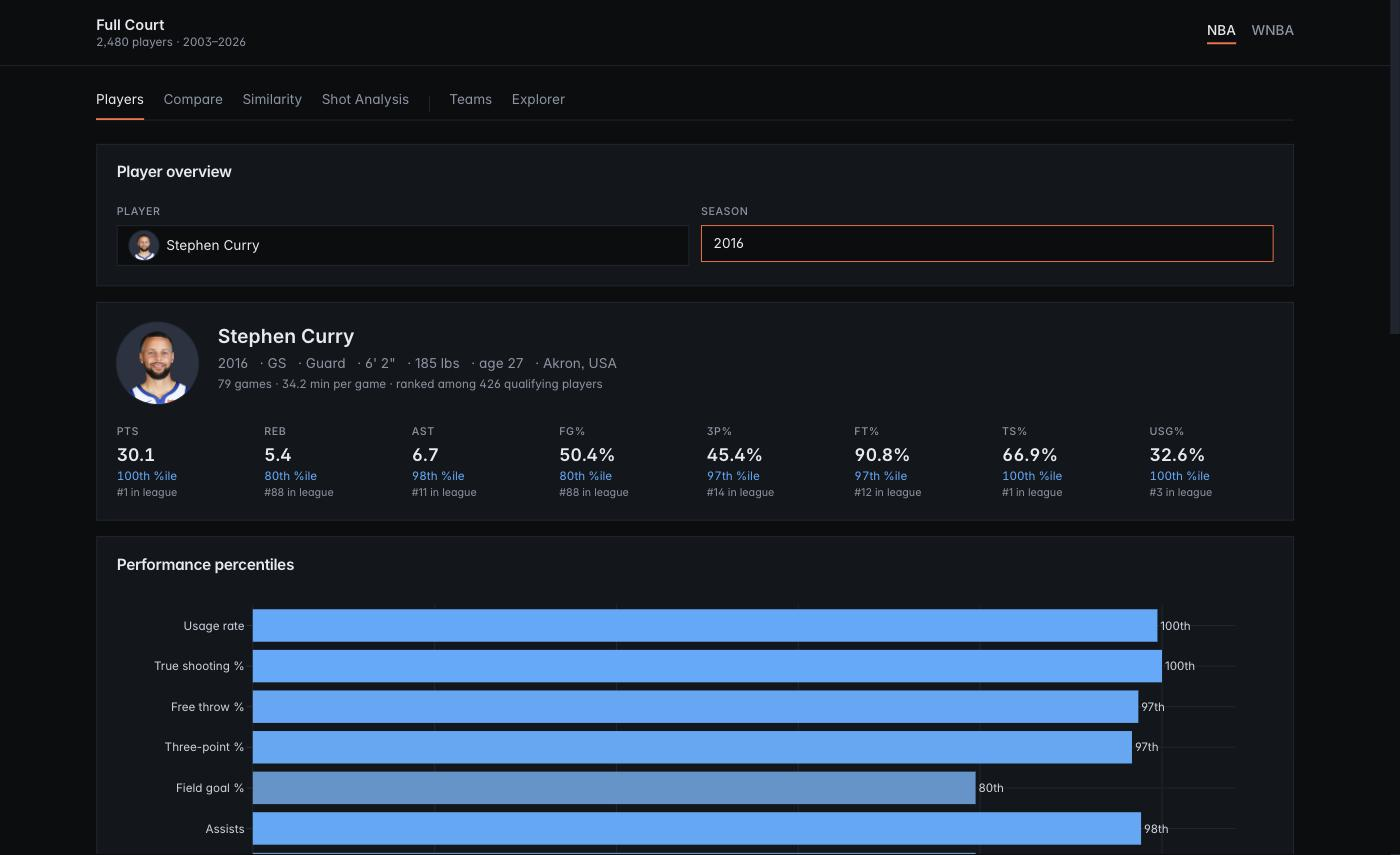
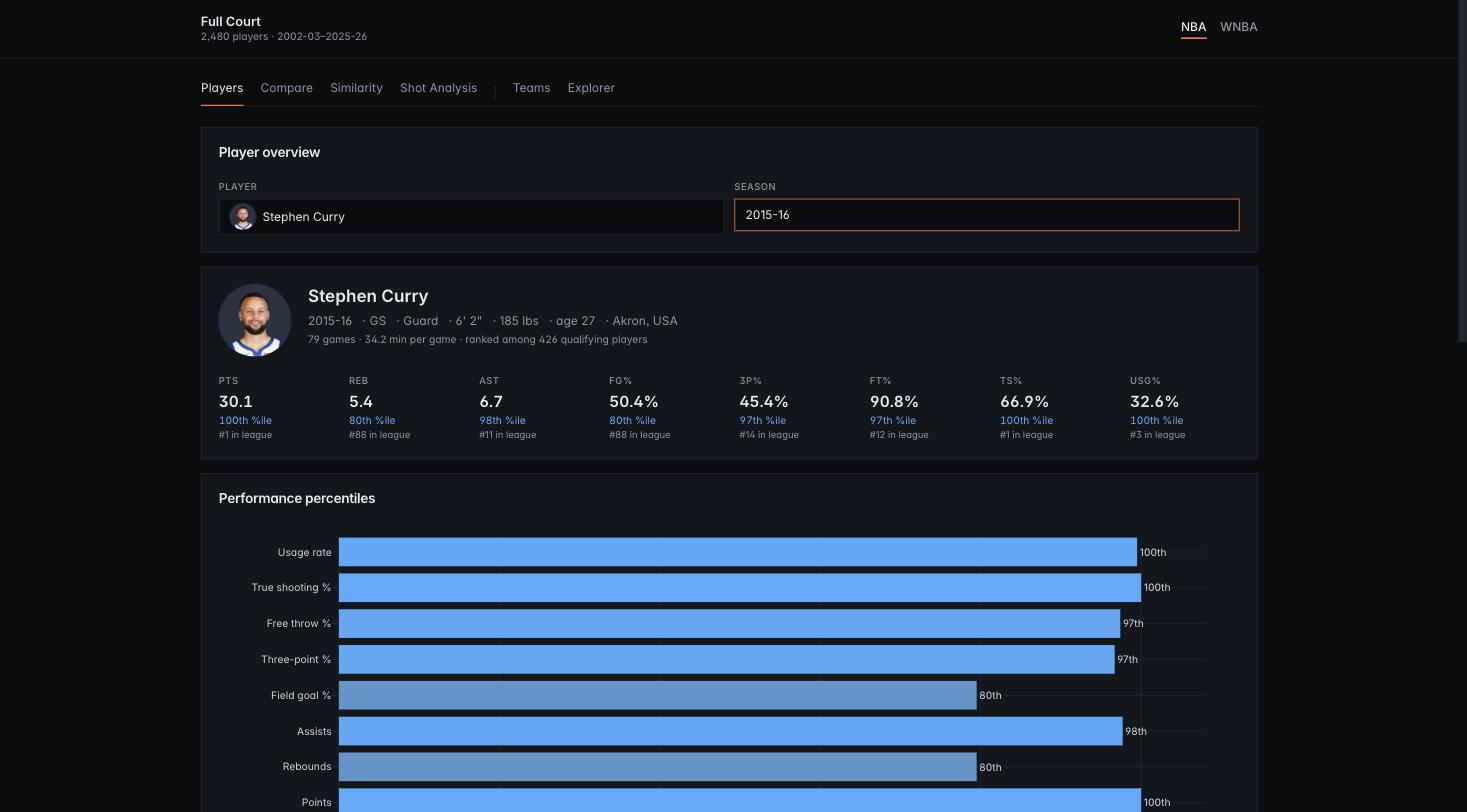
fixed year bug

diff --git a/frontend/src/components/panels/TeamMatchup.tsx b/frontend/src/components/panels/TeamMatchup.tsx
@@ -4,6 +4,7 @@ import { Card, CardBody, CardHeader } from "@/components/ui/Card";
 import { Select } from "@/components/ui/Select";
 import { Plot } from "@/components/ui/Plot";
 import { cn } from "@/lib/cn";
+import { formatSeason } from "@/lib/season";
 
 type Pick = { team: string; season: string };
 
@@ -46,14 +47,14 @@ export function TeamMatchup({ meta }: { meta: Meta }) {
     ? ["eFG%", "TOV%", "ORB%", "FT rate"].length && [
         {
           type: "bar",
-          name: `${data.a.season} ${data.a.team}`,
+          name: `${formatSeason(data.a.season, meta.season_format)} ${data.a.team}`,
           x: ["eFG%", "TOV%", "ORB%", "FT rate"],
           y: ["eFG%", "TOV%", "ORB%", "FT rate"].map((k) => data.a.values[k]),
           marker: { color: "#ff6a3d" },
         },
         {
           type: "bar",
-          name: `${data.b.season} ${data.b.team}`,
+          name: `${formatSeason(data.b.season, meta.season_format)} ${data.b.team}`,
           x: ["eFG%", "TOV%", "ORB%", "FT rate"],
           y: ["eFG%", "TOV%", "ORB%", "FT rate"].map((k) => data.b.values[k]),
           marker: { color: "#4dabff" },
@@ -69,7 +70,12 @@ export function TeamMatchup({ meta }: { meta: Meta }) {
       </div>
       <div>
         <div className="label mb-1.5">Season</div>
-        <Select value={p.season} onChange={(v) => set({ ...p, season: v })} options={meta.seasons} placeholder="Select" />
+        <Select
+          value={p.season}
+          onChange={(v) => set({ ...p, season: v })}
+          options={meta.seasons.map((s) => ({ value: s, label: formatSeason(s, meta.season_format) }))}
+          placeholder="Select"
+        />
       </div>
     </div>
   );
@@ -97,10 +103,10 @@ export function TeamMatchup({ meta }: { meta: Meta }) {
                   <tr className="text-left text-xs uppercase tracking-wider text-mute">
                     <th className="px-4 py-2 font-medium">Metric</th>
                     <th className="px-3 py-2 text-right font-medium">
-                      {data.a.season} {data.a.team}
+                      {formatSeason(data.a.season, meta.season_format)} {data.a.team}
                     </th>
                     <th className="px-4 py-2 text-right font-medium">
-                      {data.b.season} {data.b.team}
+                      {formatSeason(data.b.season, meta.season_format)} {data.b.team}
                     </th>
                   </tr>
                 </thead>

diff --git a/frontend/src/components/panels/Teams.tsx b/frontend/src/components/panels/Teams.tsx
@@ -3,6 +3,7 @@ import { api, type Meta } from "@/lib/api";
 import { Card, CardBody, CardHeader } from "@/components/ui/Card";
 import { Select } from "@/components/ui/Select";
 import { Plot } from "@/components/ui/Plot";
+import { formatSeason } from "@/lib/season";
 
 export function Teams({ meta }: { meta: Meta }) {
   const [team, setTeam] = useState("");
@@ -26,7 +27,7 @@ export function Teams({ meta }: { meta: Meta }) {
 
   const ratingTrace = useMemo(() => {
     if (!series?.rows) return [];
-    const seasons = series.rows.map((r: any) => r.season);
+    const seasons = series.rows.map((r: any) => formatSeason(r.season, meta.season_format));
     return [
       { type: "scatter", mode: "lines+markers", name: "Offensive rating",
         x: seasons, y: series.rows.map((r: any) => r.ortg) },
@@ -43,7 +44,7 @@ export function Teams({ meta }: { meta: Meta }) {
       {
         type: "bar",
         name: "Net rating",
-        x: series.rows.map((r: any) => r.season),
+        x: series.rows.map((r: any) => formatSeason(r.season, meta.season_format)),
         y: series.rows.map((r: any) =>
           r.ortg != null && r.drtg != null ? +(r.ortg - r.drtg).toFixed(1) : null
         ),
@@ -60,7 +61,7 @@ export function Teams({ meta }: { meta: Meta }) {
     if (!series?.rows) return [];
     return [
       { type: "scatter", mode: "lines+markers", name: "Pace",
-        x: series.rows.map((r: any) => r.season),
+        x: series.rows.map((r: any) => formatSeason(r.season, meta.season_format)),
         y: series.rows.map((r: any) => r.pace) },
     ];
   }, [series]);
@@ -90,7 +91,8 @@ export function Teams({ meta }: { meta: Meta }) {
     ];
   }, [factors, team]);
 
-  const seasonOptions = series?.rows?.map((r: any) => r.season) ?? [];
+  const seasonOptions =
+    series?.rows?.map((r: any) => ({ value: r.season, label: formatSeason(r.season, meta.season_format) })) ?? [];
 
   return (
     <div className="space-y-4">
@@ -163,7 +165,7 @@ export function Teams({ meta }: { meta: Meta }) {
 
       <Card>
         <CardHeader
-          title={season ? `Four Factors — ${team}, ${season}` : "Four Factors"}
+          title={season ? `Four Factors — ${team}, ${formatSeason(season, meta.season_format)}` : "Four Factors"}
         />
         <CardBody>
           <Plot

diff --git a/frontend/src/components/panels/Explorer.tsx b/frontend/src/components/panels/Explorer.tsx
@@ -5,6 +5,7 @@ import { Select } from "@/components/ui/Select";
 import { playerAvatar } from "@/components/ui/Avatar";
 import { formatValue, label, shortLabel, sortMetrics } from "@/lib/metrics";
 import { cn } from "@/lib/cn";
+import { formatSeason } from "@/lib/season";
 
 type Filt = { metric: string; op: string; value: number; value2?: number };
 
@@ -20,6 +21,7 @@ const OPS = [
 export function Explorer({ meta }: { meta: Meta }) {
   const avatar = playerAvatar(meta);
   const seasons = meta.seasons;
+  const seasonOptions = seasons.map((s) => ({ value: s, label: formatSeason(s, meta.season_format) }));
   const metricKeys = sortMetrics(meta.metrics);
 
   const [from, setFrom] = useState(seasons[0] ?? "");
@@ -88,11 +90,11 @@ export function Explorer({ meta }: { meta: Meta }) {
           <div className="grid gap-3 md:grid-cols-3 lg:grid-cols-6">
             <div>
               <div className="label mb-1.5">Season from</div>
-              <Select value={from} onChange={setFrom} options={seasons} />
+              <Select value={from} onChange={setFrom} options={seasonOptions} />
             </div>
             <div>
               <div className="label mb-1.5">to</div>
-              <Select value={to} onChange={setTo} options={seasons} />
+              <Select value={to} onChange={setTo} options={seasonOptions} />
             </div>
             <div>
               <div className="label mb-1.5">Min games</div>
@@ -246,7 +248,9 @@ export function Explorer({ meta }: { meta: Meta }) {
                               {avatar(r.player_name, 24)}
                               {r.player_name}
                             </span>
-                          ) : c === "season" || c === "team_abbr" ? (
+                          ) : c === "season" ? (
+                            formatSeason(r[c], meta.season_format) || "—"
+                          ) : c === "team_abbr" ? (
                             r[c] ?? "—"
                           ) : (
                             formatValue(c, r[c])

diff --git a/frontend/src/components/panels/TeamCompare.tsx b/frontend/src/components/panels/TeamCompare.tsx
@@ -4,6 +4,7 @@ import { Card, CardBody, CardHeader } from "@/components/ui/Card";
 import { Select } from "@/components/ui/Select";
 import { Plot } from "@/components/ui/Plot";
 import { cn } from "@/lib/cn";
+import { formatSeason } from "@/lib/season";
 
 // Net rating is polarity data (better/worse than break-even), so it gets a
 // diverging scale: two poles through a neutral grey midpoint, centered on 0.
@@ -152,7 +153,12 @@ export function TeamCompare({ meta }: { meta: Meta }) {
           <div className="grid gap-3 md:grid-cols-3">
             <div>
               <div className="label mb-1.5">Season</div>
-              <Select value={season} onChange={setSeason} options={meta.seasons} placeholder="Select" />
+              <Select
+                value={season}
+                onChange={setSeason}
+                options={meta.seasons.map((s) => ({ value: s, label: formatSeason(s, meta.season_format) }))}
+                placeholder="Select"
+              />
             </div>
           </div>
           {err && <div className="mt-3 text-sm text-bad">{err}</div>}
@@ -161,7 +167,7 @@ export function TeamCompare({ meta }: { meta: Meta }) {
 
       <Card>
         <CardHeader
-          title={season ? `Offense vs. defense — ${season}` : "Offense vs. defense"}
+          title={season ? `Offense vs. defense — ${formatSeason(season, meta.season_format)}` : "Offense vs. defense"}
         />
         <CardBody>
           <Plot data={traces as any} layout={layout} height={480} placeholder="Select a season" />
@@ -170,7 +176,7 @@ export function TeamCompare({ meta }: { meta: Meta }) {
 
       <Card>
         <CardHeader
-          title={season ? `League table — ${season}` : "League table"}
+          title={season ? `League table — ${formatSeason(season, meta.season_format)}` : "League table"}
         />
         <CardBody className="p-0">
           {sorted.length === 0 ? (

diff --git a/frontend/src/components/panels/Similar.tsx b/frontend/src/components/panels/Similar.tsx
@@ -8,6 +8,7 @@ import { PlayerLegend } from "@/components/ui/PlayerLegend";
 import { playerAvatar } from "@/components/ui/Avatar";
 import { formatValue, shortLabel } from "@/lib/metrics";
 import { cn } from "@/lib/cn";
+import { formatSeason } from "@/lib/season";
 
 const PRESETS = ["Overall", "Scoring", "Shooting", "Playmaking", "Defense", "Custom"];
 
@@ -162,7 +163,7 @@ export function Similar({ meta }: { meta: Meta }) {
                       <div className="min-w-0 flex-1">
                         <div className="flex items-baseline justify-between gap-3">
                           <span className="truncate">
-                            {m.season} {m.player_name}
+                            {formatSeason(m.season, meta.season_format)} {m.player_name}
                             <span className="ml-2 text-xs text-mute">{m.team}</span>
                           </span>
                           <span className="shrink-0 tabular-nums text-accent">
@@ -240,7 +241,7 @@ export function Similar({ meta }: { meta: Meta }) {
                       className={cn("border-t border-border/60", i === 0 && "bg-border/25")}
                     >
                       <td className="whitespace-nowrap px-4 py-2">
-                        {r.season} {r.player_name}
+                        {formatSeason(r.season, meta.season_format)} {r.player_name}
                         {i === 0 && <span className="ml-2 text-xs text-accent">selected</span>}
                       </td>
                       {features.map((f) => (

diff --git a/frontend/src/components/panels/Players.tsx b/frontend/src/components/panels/Players.tsx
@@ -7,6 +7,7 @@ import { Avatar } from "@/components/ui/Avatar";
 import { PlayerSeasonSelector, emptySelection } from "@/components/ui/PlayerSeasonSelector";
 import { formatValue, label, ordinal, shortLabel, sortMetrics } from "@/lib/metrics";
 import { cn } from "@/lib/cn";
+import { formatSeason } from "@/lib/season";
 
 /** Percentile → color. Deliberately three steps, not a gradient: the point is
  *  "clearly above / around / clearly below average", not a precise reading. */
@@ -58,7 +59,7 @@ export function Players({ meta }: { meta: Meta }) {
         type: "scatter",
         mode: "lines+markers",
         name: shortLabel(trendMetric),
-        x: rows.map((r: any) => r.season),
+        x: rows.map((r: any) => formatSeason(r.season, meta.season_format)),
         y: rows.map((r: any) => r[trendMetric]),
         hovertemplate: `%{x}: %{y}<extra>${label(trendMetric)}</extra>`,
       },
@@ -107,7 +108,7 @@ export function Players({ meta }: { meta: Meta }) {
                 {sel.playerName || "Select a player"}
               </div>
               <div className="mt-1 flex flex-wrap gap-x-3 gap-y-1 text-sm text-mute">
-                {season?.season && <span>{season.season}</span>}
+                {season?.season && <span>{formatSeason(season.season, meta.season_format)}</span>}
                 {season?.team && <span>· {season.team}</span>}
                 {info?.bio?.position && <span>· {info.bio.position}</span>}
                 {info?.bio?.height && <span>· {info.bio.height}</span>}

diff --git a/frontend/src/components/panels/ShotAnalysis.tsx b/frontend/src/components/panels/ShotAnalysis.tsx
@@ -6,6 +6,7 @@ import { PlayerSeasonSelector, emptySelection } from "@/components/ui/PlayerSeas
 import { playerAvatar } from "@/components/ui/Avatar";
 import { buildCourtShapes, courtAxis } from "@/lib/court";
 import { cn } from "@/lib/cn";
+import { formatSeason } from "@/lib/season";
 
 const pct = (v: number | null | undefined) => (v == null ? "—" : `${(v * 100).toFixed(1)}%`);
 const signed = (v: number | null | undefined) =>
@@ -173,7 +174,7 @@ export function ShotAnalysis({ meta }: { meta: Meta }) {
         <Card>
           <CardHeader
             lead={a.playerName ? avatar(a.playerName, 40) : undefined}
-            title={zonesA ? `${zonesA.season} ${zonesA.player_name}` : "—"}
+            title={zonesA ? `${formatSeason(zonesA.season, meta.season_format)} ${zonesA.player_name}` : "—"}
             subtitle={
               zonesA ? `${zonesA.total_fga} field goal attempts · ${pct(zonesA.fg_pct)} overall` : undefined
             }
@@ -187,7 +188,7 @@ export function ShotAnalysis({ meta }: { meta: Meta }) {
           <Card>
             <CardHeader
               lead={b.playerName ? avatar(b.playerName, 40) : undefined}
-              title={zonesB ? `${zonesB.season} ${zonesB.player_name}` : "—"}
+              title={zonesB ? `${formatSeason(zonesB.season, meta.season_format)} ${zonesB.player_name}` : "—"}
               subtitle={
                 zonesB ? `${zonesB.total_fga} field goal attempts · ${pct(zonesB.fg_pct)} overall` : " "
               }

diff --git a/frontend/src/components/panels/TeamRankings.tsx b/frontend/src/components/panels/TeamRankings.tsx
@@ -2,6 +2,7 @@ import { useEffect, useState } from "react";
 import { api, type Meta } from "@/lib/api";
 import { Card, CardBody, CardHeader } from "@/components/ui/Card";
 import { Select } from "@/components/ui/Select";
+import { formatSeason } from "@/lib/season";
 
 const METRICS = [
   { value: "net", label: "Net rating" },
@@ -34,7 +35,7 @@ export function TeamRankings({ meta }: { meta: Meta }) {
 
   const rows = data?.rows ?? [];
   const span = meta.seasons.length
-    ? `${meta.seasons[0]}–${meta.seasons[meta.seasons.length - 1]}`
+    ? `${formatSeason(meta.seasons[0], meta.season_format)}–${formatSeason(meta.seasons[meta.seasons.length - 1], meta.season_format)}`
     : "";
 
   return (
@@ -70,7 +71,7 @@ export function TeamRankings({ meta }: { meta: Meta }) {
                   <tr key={`${r.team}-${r.season}`} className="border-t border-border/60">
                     <td className="px-4 py-2 text-mute tabular-nums">{i + 1}</td>
                     <td className="whitespace-nowrap px-3 py-2">
-                      {r.season} {r.team}
+                      {formatSeason(r.season, meta.season_format)} {r.team}
                     </td>
                     <td className="px-3 py-2 text-right tabular-nums text-accent">
                       {fmt(metric, r[metric])}

diff --git a/frontend/src/App.tsx b/frontend/src/App.tsx
@@ -8,6 +8,7 @@ import { Similar } from "./components/panels/Similar";
 import { TeamsSection } from "./components/panels/TeamsSection";
 import { Explorer } from "./components/panels/Explorer";
 import { ShotAnalysis } from "./components/panels/ShotAnalysis";
+import { formatSeason } from "@/lib/season";
 
 /** One flat nav. `group` only draws a separator — it is not a second click. */
 const TABS = [
@@ -59,8 +60,11 @@ export default function App() {
               <div className="text-xs text-mute">
                 {meta.players.length.toLocaleString()} players ·{" "}
                 {meta.seasons.length > 1
-                  ? `${meta.seasons[0]}–${meta.seasons[meta.seasons.length - 1]}`
-                  : meta.seasons[0]}
+                  ? `${formatSeason(meta.seasons[0], meta.season_format)}–${formatSeason(
+                      meta.seasons[meta.seasons.length - 1],
+                      meta.season_format
+                    )}`
+                  : formatSeason(meta.seasons[0], meta.season_format)}
               </div>
             </div>
           </div>

diff --git a/frontend/src/lib/season.ts b/frontend/src/lib/season.ts
@@ -1,0 +1,24 @@
+/** Season labels for display.
+ *
+ * The API stores and accepts a plain year ("2026"). What that year *means*
+ * differs by league, so the backend reports `season_format` in /api/meta and
+ * this is the only place the frontend turns a stored label into a shown one.
+ *
+ * Only ever format at the point of rendering — every value sent back to the
+ * API must stay the raw stored label.
+ */
+export type SeasonFormat = "range" | "year";
+
+export function formatSeason(season: string | number | null | undefined, fmt?: SeasonFormat): string {
+  if (season == null || season === "") return "";
+  const raw = String(season);
+  if (fmt !== "range") return raw;
+  const end = Number(raw.slice(0, 4));
+  if (!Number.isFinite(end)) return raw;
+  return `${end - 1}-${String(end).slice(-2)}`;
+}
+
+/** "2003–2026" -> "2002-03 – 2025-26" for a range of stored labels. */
+export function formatSeasonRange(from: string, to: string, fmt?: SeasonFormat): string {
+  return from === to ? formatSeason(from, fmt) : `${formatSeason(from, fmt)}–${formatSeason(to, fmt)}`;
+}

diff --git a/frontend/src/components/panels/Compare.tsx b/frontend/src/components/panels/Compare.tsx
@@ -9,6 +9,7 @@ import { PlayerLegend } from "@/components/ui/PlayerLegend";
 import { playerAvatar } from "@/components/ui/Avatar";
 import { formatDelta, formatValue, label, ordinal, shortLabel, sortMetrics } from "@/lib/metrics";
 import { cn } from "@/lib/cn";
+import { formatSeason } from "@/lib/season";
 
 const MODES = [
   { v: "season", label: "Single season" },
@@ -91,7 +92,7 @@ export function Compare({ meta }: { meta: Meta }) {
       type: "scatter",
       mode: "lines+markers",
       name: c.player_name,
-      x: c.points.map((p: any) => (useAge ? p.age : p.season)),
+      x: c.points.map((p: any) => (useAge ? p.age : formatSeason(p.season, meta.season_format))),
       y: c.points.map((p: any) => p[careerMetric]),
       hovertemplate: `${useAge ? "age %{x}" : "%{x}"}: %{y}<extra>${"%{fullData.name}"}</extra>`,
     }));

diff --git a/frontend/src/components/ui/PlayerSeasonSelector.tsx b/frontend/src/components/ui/PlayerSeasonSelector.tsx
@@ -3,6 +3,7 @@ import { api, type Meta, type PlayerInfo, type PlayerSeason } from "@/lib/api";
 import { PlayerCombobox } from "./PlayerCombobox";
 import { Select } from "./Select";
 import { playerAvatar } from "./Avatar";
+import { formatSeason } from "@/lib/season";
 
 type Props = {
   meta: Meta;
@@ -82,7 +83,10 @@ export function PlayerSeasonSelector({
           <Select
             value={value.season}
             onChange={(s) => onChange({ ...value, season: s })}
-            options={info?.seasons ?? []}
+            options={(info?.seasons ?? []).map((s) => ({
+              value: s,
+              label: formatSeason(s, meta.season_format),
+            }))}
             placeholder={value.playerName ? "Select" : "Pick a player first"}
           />
         </div>
